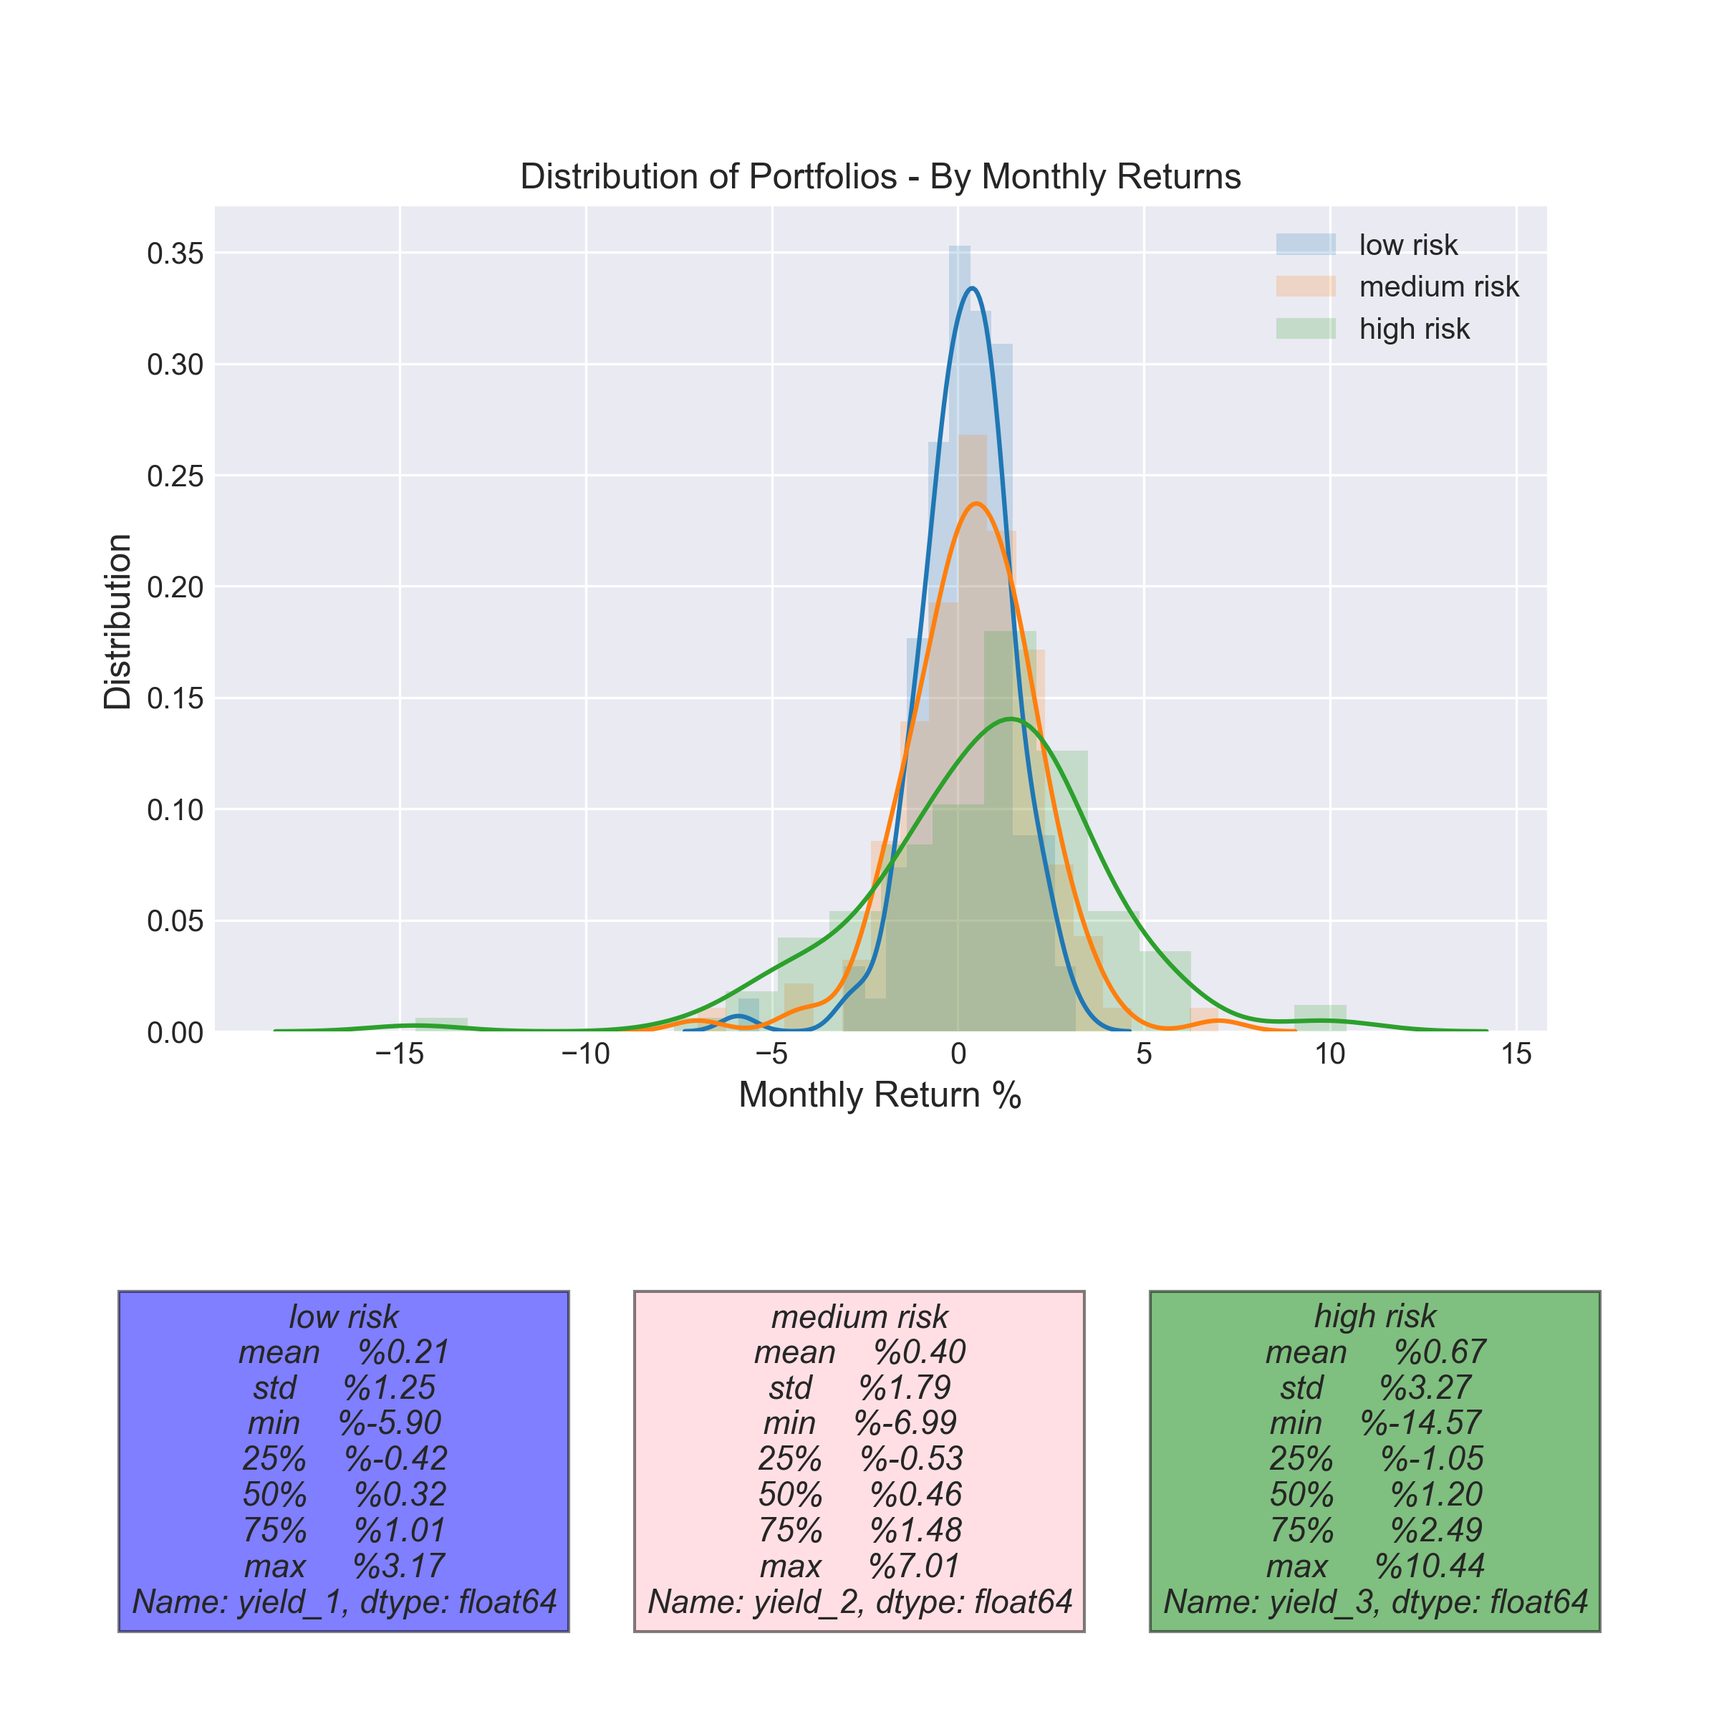
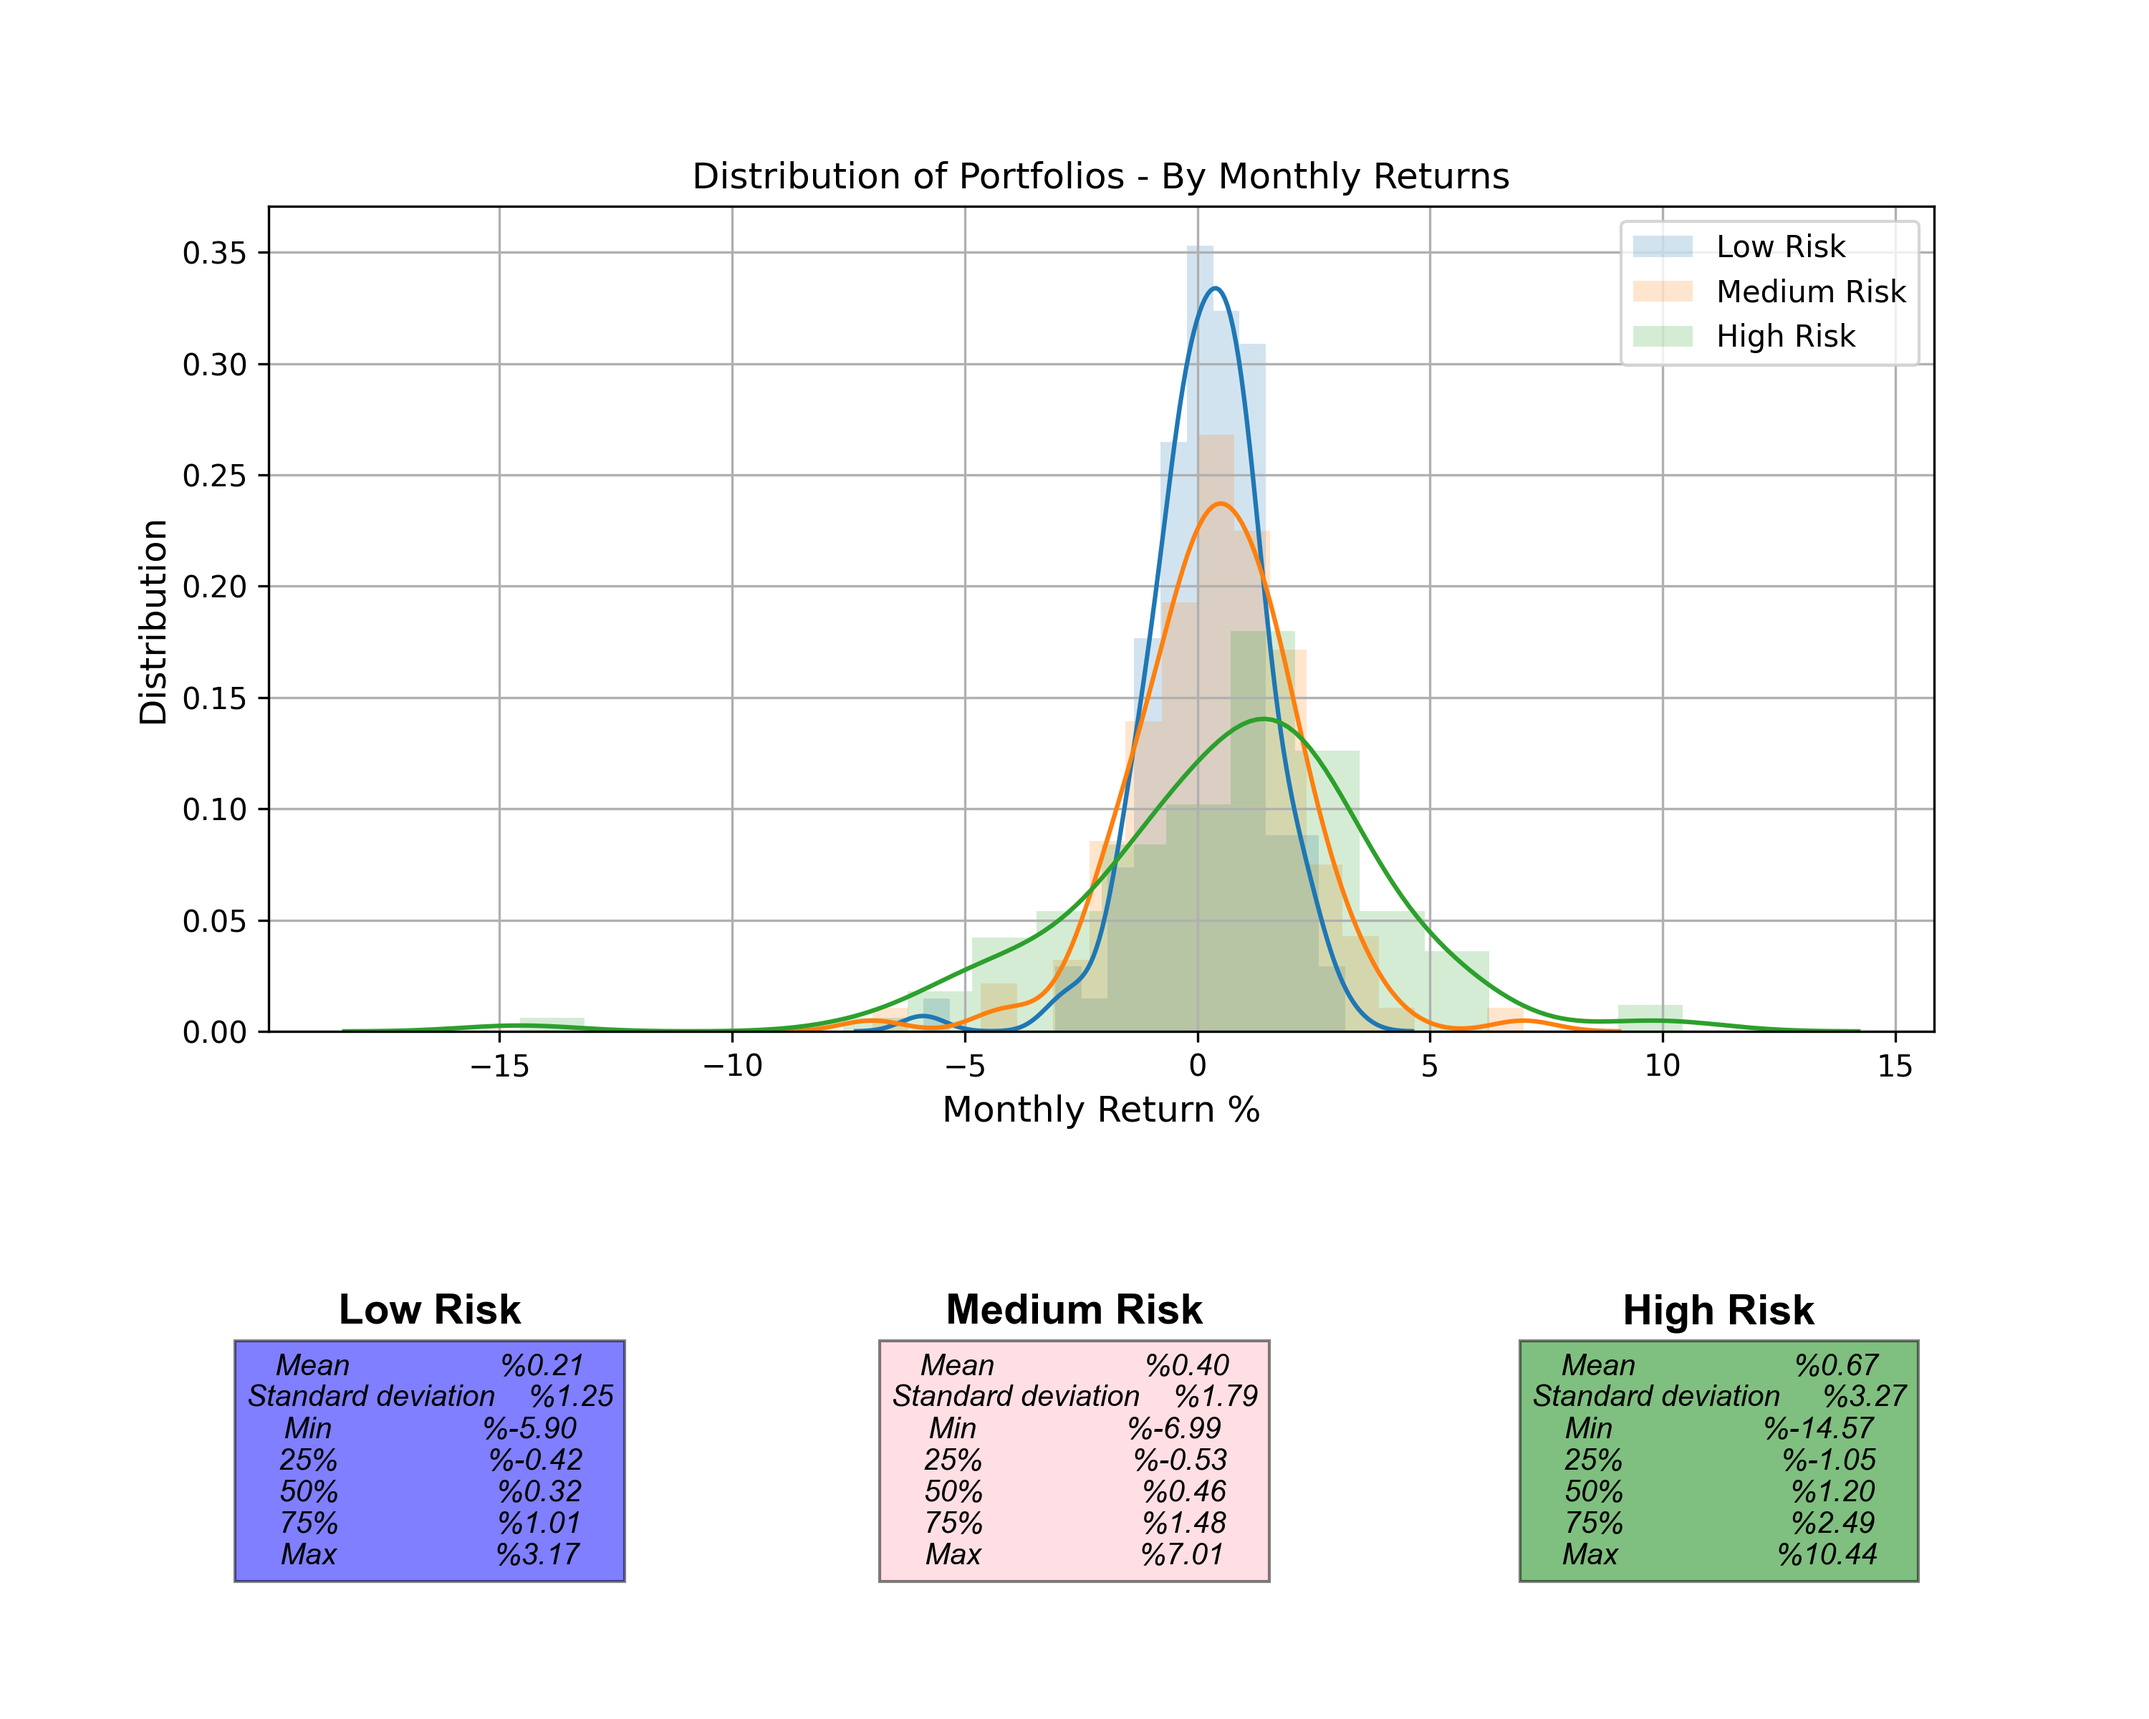
Graphs and matplotlib

diff --git a/static/css/style.css b/static/css/style.css
@@ -159,6 +159,7 @@ svg {
     margin-top: 10px;
     border: none;
     padding: 0;
+    width: 100%;
 }
 
 .capital-market-form-radio {
@@ -172,10 +173,6 @@ svg {
 .capital-market-form-radio div label {
     font-weight: 600;
     color: rgb(50, 50, 50);
-}
-
-.capital-market-form-img {
-    width: 500px;
 }
 
 .capital-market-form-img img {

diff --git a/service/util/plot_functions.py b/service/util/plot_functions.py
@@ -258,118 +258,87 @@ def plotbb_strategy_portfolio(stock_prices, buy_price, sell_price, new_portfolio
     return plt
 
 
-def plot_three_portfolios_graph(min_variance_port, sharpe_portfolio, max_returns, three_best_sectors_weights, sectors,
+def plot_three_portfolios_graph(min_variance_portfolio, sharpe_portfolio, max_returns, three_best_sectors_weights, sectors,
                                 pct_change_table):
     plt.figure()  # Create a new plot instance
     # plot frontier, max sharpe & min Volatility values with a scatterplot
-    fig_size_X = 10
-    fig_size_Y = 8
-    fig_size = (fig_size_X, fig_size_Y)
+    fig_size: tuple[int, int] = (10, 8)
     plt.style.use("seaborn-dark")
     plt.xlabel("Date")
     plt.ylabel("Returns %")
-    plt.title("3 best portfolios")
+    plt.title("3 Best Portfolios")
 
     pct_change_table['yield_1_percent'] = (pct_change_table['yield_1'] - 1) * 100
     pct_change_table['yield_2_percent'] = (pct_change_table['yield_2'] - 1) * 100
     pct_change_table['yield_3_percent'] = (pct_change_table['yield_3'] - 1) * 100
 
-    pct_change_table['yield_1_percent'].plot(figsize=fig_size, grid=True, color="yellow", linewidth=2, label="safest",
-                                             legend=True, linestyle="dashed")
-    pct_change_table['yield_2_percent'].plot(figsize=fig_size, grid=True, color="green", linewidth=2, label="sharpe",
-                                             legend=True, linestyle="dashed")
-    pct_change_table['yield_3_percent'].plot(figsize=fig_size, grid=True, color="red", linewidth=2, label="max return",
-                                             legend=True, linestyle="dashed")
+    pct_change_table['yield_1_percent'].plot(
+        figsize=fig_size, grid=True, color="yellow", linewidth=2, label="Safest", legend=True, linestyle="dashed"
+    )
+    pct_change_table['yield_2_percent'].plot(
+        figsize=fig_size, grid=True, color="green", linewidth=2, label="Sharpe", legend=True, linestyle="dashed"
+    )
+    pct_change_table['yield_3_percent'].plot(
+        figsize=fig_size, grid=True, color="red", linewidth=2, label="Max return", legend=True, linestyle="dashed"
+    )
 
     plt.subplots_adjust(bottom=0.4)
 
     # ------------------ Printing 3 optimal Portfolios -----------------------
     # Setting max_X, max_Y to act as relative border for window size
-    stocks_str_high = ""
-    stocks_str_medium = ""
-    stocks_str_low = ""
+    stocks_str_high: str = ""
+    stocks_str_medium: str = ""
+    stocks_str_low: str = ""
 
-    # stocks_str_high
     for i in range(len(sectors)):
         weight = three_best_sectors_weights[2][i] * 100
         stocks_str_high += sectors[i].name + "(" + str("{:.2f}".format(weight)) + "%),\n "
-    # stocks_str_medium
-    for i in range(len(sectors)):
         weight = three_best_sectors_weights[1][i] * 100
         stocks_str_medium += sectors[i].name + "(" + str("{:.2f}".format(weight)) + "%),\n "
-    # stocks_str_low
-    for i in range(len(sectors)):
         weight = three_best_sectors_weights[0][i] * 100
         stocks_str_low += sectors[i].name + "(" + str("{:.2f}".format(weight)) + "%),\n "
 
     with pd.option_context("display.float_format", "%{:,.2f}".format):
-        plt.figtext(
-            0.2,
-            0.15,
-            "Max Returns Portfolio: \n"
-            + "Annual Returns: " + str(round(max_returns.iloc[0][0], 2)) + "%\n"
-            + "Annual Volatility: " + str(round(max_returns.iloc[0][1], 2)) + "%\n"
-            + "Annual Max Loss: " + str(round(max_returns.iloc[0][0] - 1.65 * max_returns.iloc[0][1], 2)) + "%\n"
-            + "Annual Sharpe Ratio: " + str(round(max_returns.iloc[0][2], 2)) + "\n"
-            + stocks_str_high,
-            bbox=dict(facecolor="red", alpha=0.5),
-            fontsize=11,
-            style="oblique",
-            ha="center",
-            va="center",
-            fontname="Arial",
-            wrap=True,
-        )
-        plt.figtext(
-            0.8,
-            0.15,
-            "Sharpe  Portfolio: \n"
-            + "Annual Returns: " + str(round(sharpe_portfolio.iloc[0][0], 2)) + "%\n"
-            + "Annual Volatility: " + str(round(sharpe_portfolio.iloc[0][1], 2)) + "%\n"
-            + "Annual Max Loss: " + str(round(sharpe_portfolio.iloc[0][0] - 1.65 * sharpe_portfolio.iloc[0][1], 2))
-            + "%\n"
-            + "Annual Sharpe Ratio: " + str(round(sharpe_portfolio.iloc[0][2], 2)) + "\n"
-            + stocks_str_medium,
-            bbox=dict(facecolor="green", alpha=0.5),
-            fontsize=11,
-            style="oblique",
-            ha="center",
-            va="center",
-            fontname="Arial",
-            wrap=True,
-        )
-        plt.figtext(
-            0.5,
-            0.15,
-            "Safest Portfolio: \n"
-            + "Annual Returns: " + str(round(min_variance_port.iloc[0][0], 2)) + "%\n"
-            + "Annual Volatility: " + str(round(min_variance_port.iloc[0][1], 2)) + "%\n"
-            + "Annual Max Loss: " + str(round(min_variance_port.iloc[0][0] - 1.65 * min_variance_port.iloc[0][1], 2))
-            + "%\n"
-            + "Annual Sharpe Ratio: " + str(round(min_variance_port.iloc[0][2], 2)) + "\n"
-            + stocks_str_low,
-            bbox=dict(facecolor="yellow", alpha=0.5),
-            fontsize=11,
-            style="oblique",
-            ha="center",
-            va="center",
-            fontname="Arial",
-            wrap=True,
-        )
+        fig_text_data: dict = {
+            'name': ['Max Returns', 'Sharpe', 'Safest'],
+            'portfolio': [max_returns.iloc[0], sharpe_portfolio.iloc[0], min_variance_portfolio.iloc[0]],
+            'stocks': [stocks_str_high, stocks_str_medium, stocks_str_low],
+            'facecolor': ['red', 'green', 'yellow']
+        }
+        for i in range(3):
+            portfolio = fig_text_data['portfolio'][i]
+            plt.figtext(
+                x=0.2 + 0.3 * i,
+                y=0.15,
+                s=f"Annual Returns: {str(round(portfolio[0], 2))}%\n"
+                  f"Annual Volatility: {str(round(portfolio[1], 2))}%\n"
+                  f"Annual Max Loss: {str(round(portfolio[0] - 1.65 * portfolio[1], 2))}%\n"
+                  f"Annual Sharpe Ratio: {str(round(portfolio[2], 2))}\n"
+                  f"{fig_text_data['stocks'][i][:-2]}",
+                bbox=dict(facecolor=fig_text_data['facecolor'][i], alpha=0.5),
+                fontsize=10,
+                style="oblique",
+                ha="center",
+                va="center",
+                fontname="Arial",
+                wrap=True,
+            )
+            plt.figtext(
+                x=0.2 + 0.3 * i, y=0.27, s=f"{fig_text_data['name'][i]} Portfolio:", fontsize=12, fontweight="bold",
+                ha="center", va="center", fontname="Arial", wrap=True,
+            )
     return plt
 
 
 def plot_distribution_of_portfolio(yields) -> plt:
     plt.figure()  # Create a new plot instance
-    labels = ['low risk', 'medium risk', 'high risk']
-    plt.subplots(figsize=(8, 8))
+    labels = ['Low Risk', 'Medium Risk', 'High Risk']
+    plt.subplots(figsize=(10, 8))
     plt.subplots_adjust(bottom=0.4)
 
-    monthly_changes = [None] * len(yields)  # yield changes
-    monthly_yields = [None] * len(yields)  # monthly yield change
-    df_describes = [None] * len(yields)  # describe of yield changes
-    # monthlyCompoundedReturns = [None] * len(yields) # total change in percent from beginning
-    # monthlyCompoundedReturns[i] = (1 + monthly_changes[i]).cumprod() - 1
+    monthly_yields: list[pd.core.series.Series] = [None] * len(yields)  # monthly yield change
+    monthly_changes: list[pd.core.series.Series] = [None] * len(yields)  # yield changes
+    df_describes: list[pd.core.series.Series] = [None] * len(yields)  # describe of yield changes
 
     for i in range(len(yields)):
         # Convert the index to datetime if it's not already in the datetime format
@@ -377,11 +346,19 @@ def plot_distribution_of_portfolio(yields) -> plt:
         if not pd.api.types.is_datetime64_any_dtype(curr_yield.index):
             yields[i].index = pd.to_datetime(curr_yield.index)
 
-        monthly_yields[i]: List[np.ndarray] = curr_yield.resample('M').first()
-        monthly_changes[i]: pd.DataFrame = monthly_yields[i].pct_change().dropna() * 100
-        df_describes[i]: pd.DataFrame = monthly_changes[i].describe().drop(["count"], axis=0)
-        sns.distplot(pd.Series(monthly_changes[i]), kde=True, hist_kws={'alpha': 0.2}, norm_hist=False,
-                     rug=False, label=labels[i])
+        monthly_yields[i]: pd.core.series.Series = curr_yield.resample('M').first()
+        monthly_changes[i]: pd.core.series.Series = monthly_yields[i].pct_change().dropna() * 100
+        df_describes[i]: pd.core.series.Series = monthly_changes[i].describe().drop(["count"], axis=0)
+        df_describes[i]: pd.core.series.Series = df_describes[i].rename(index={'std': 'Standard Deviation'})
+        df_describes[i].index = df_describes[i].index.str.capitalize()
+        df_describes[i]: pd.core.series.Series = df_describes[i].rename(index={'std': 'Standard Deviation'})
+        sns.distplot(
+            a=monthly_changes[i], kde=True, hist_kws={'alpha': 0.2}, norm_hist=False, rug=False, label=labels[i],
+        )
+        # Using sns.histplot(...):
+        # sns.histplot(
+        #     data=monthly_changes[i], kde=True, label=labels[i],
+        # )
 
     plt.xlabel('Monthly Return %', fontsize=12)
     plt.ylabel('Distribution', fontsize=12)
@@ -389,13 +366,36 @@ def plot_distribution_of_portfolio(yields) -> plt:
     plt.legend()
     plt.title("Distribution of Portfolios - By Monthly Returns")
 
+    # Creates figtext under the main graph
     with pd.option_context("display.float_format", "%{:,.2f}".format):
-        plt.figtext(0.2, 0.15, "low risk\n" + str(df_describes[0]), bbox=dict(facecolor="blue", alpha=0.5),
-                    fontsize=11, style="oblique", ha="center", va="center", fontname="Arial", wrap=True)
-        plt.figtext(0.5, 0.15, "medium risk\n" + str(df_describes[1]), bbox=dict(facecolor="pink", alpha=0.5),
-                    fontsize=11, style="oblique", ha="center", va="center", fontname="Arial", wrap=True)
-        plt.figtext(0.8, 0.15, "high risk\n" + str(df_describes[2]), bbox=dict(facecolor="green", alpha=0.5),
-                    fontsize=11, style="oblique", ha="center", va="center", fontname="Arial", wrap=True)
+        y_header: float = 0.23
+        y_content: float = 0.15
+        alpha: float = 0.5
+        s_params: list = ['Low', 'Medium', 'High']
+        facecolor: list = ['blue', 'pink', 'green']
+        header_fontsize: int = 14
+        content_fontsize: int = 10
+        style: str = 'oblique'
+        ha_header: str = 'center'
+        ha_content: str = 'center'
+        va: str = 'center'
+        fontname: str = 'Arial'
+        wrap: bool = True
+        for i in range(3):
+            x = 0.2 + 0.3 * i
+            s_content = df_describes[i].to_string()
+            bbox: dict = {'facecolor': facecolor[i], 'alpha': alpha}
+
+            # Content figtext
+            plt.figtext(
+                x=x, y=y_content, s=s_content, bbox=bbox, fontsize=content_fontsize, style=style, ha=ha_content,
+                va=va, fontname=fontname, wrap=wrap,
+            )
+            # Header figtext
+            plt.figtext(
+                x=x, y=y_header, s=f'{s_params[i]} Risk', fontsize=header_fontsize, fontweight='bold',
+                ha=ha_header, fontname=fontname, wrap=wrap,
+            )
 
     return plt
 
@@ -460,11 +460,12 @@ def plot_sectors_component(user_name: str, sectors_weights: List[float], sectors
     return plt
 
 
-def plot_portfolio_component_stocks(user_name: str, stocks_weights: List[float], stocks_symbols,
-                                    descriptions):
+def plot_portfolio_component_stocks(user_name: str, stocks_weights: List[float], stocks_symbols: list[int],
+                                    descriptions: list[str]):
     if len(stocks_weights) != len(stocks_symbols) or len(stocks_weights) != len(descriptions):
         raise ValueError("Input lists must have the same length.")
-    plt.figure(figsize=(8, 4))
+    figsize: tuple[int, int] = (8, 4)
+    plt.figure(figsize=figsize)
     plt.title(f"{user_name}'s Portfolio", fontsize=16, pad=20)
 
     data = [["Stock", "Weight", "Description"]]
@@ -508,8 +509,9 @@ def plot_distribution_of_stocks(stock_names, pct_change_table) -> plt:
     plt.xlabel('Return', fontsize=12)
     plt.ylabel('Distribution', fontsize=12)
     for i in range(len(stock_names)):
-        sns.distplot(pct_change_table[stock_names[i]][::30] * 100, kde=True, hist=False, rug=False,
-                     label=stock_names[i])
+        sns.distplot(
+            a=pct_change_table[stock_names[i]][::30] * 100, kde=True, hist=False, rug=False, label=stock_names[i],
+        )
     plt.grid(True)
     plt.legend()
     return plt

diff --git a/service/util/data_management.py b/service/util/data_management.py
@@ -547,6 +547,11 @@ def save_user_portfolio(curr_user: User) -> None:
     TEST_SIZE_MACHINE_LEARNING = models_data['TEST_SIZE_MACHINE_LEARNING']
 
     try:
+        os.mkdir(settings.USER_IMAGES)  # Creates 'static/img/user' folder
+    except FileExistsError:  # Ignore the exception
+        pass
+
+    try:
         os.mkdir(curr_user_directory)  # Creates 'static/img/user/<USER_ID>' folder
     except FileExistsError:  # Ignore the exception
         pass

diff --git a/service/config/settings.py b/service/config/settings.py
@@ -32,8 +32,8 @@ NON_MACHINE_LEARNING_LOCATION = 'withoutMachineLearning/'  # directory with 6 ta
 CLOSING_PRICES_FILE_NAME = "closing_prices"
 
 # STATIC FILES
-GRAPH_IMAGES = BASE_SERVICE_DIR + '../static/img/graphs/'
-USER_IMAGES = BASE_SERVICE_DIR + '../static/img/user/'
+GRAPH_IMAGES = DJANGO_DIR + 'static/img/graphs/'
+USER_IMAGES = DJANGO_DIR + 'static/img/user/'
 
 # RESEARCH
 RESEARCH_LOCATION = BASE_SERVICE_DIR + 'research/'
